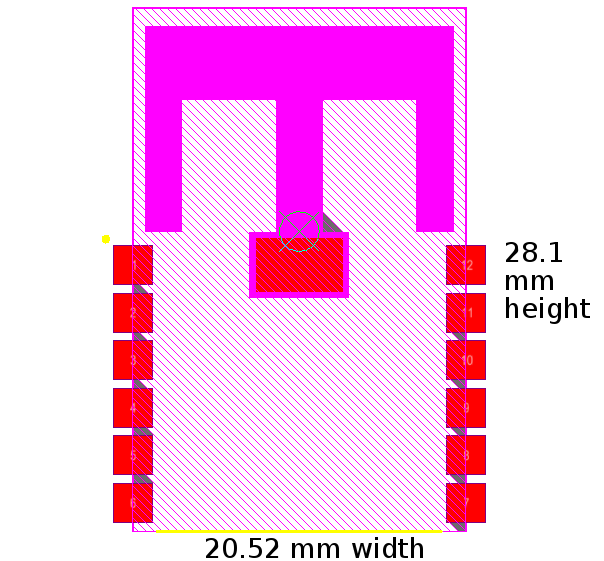
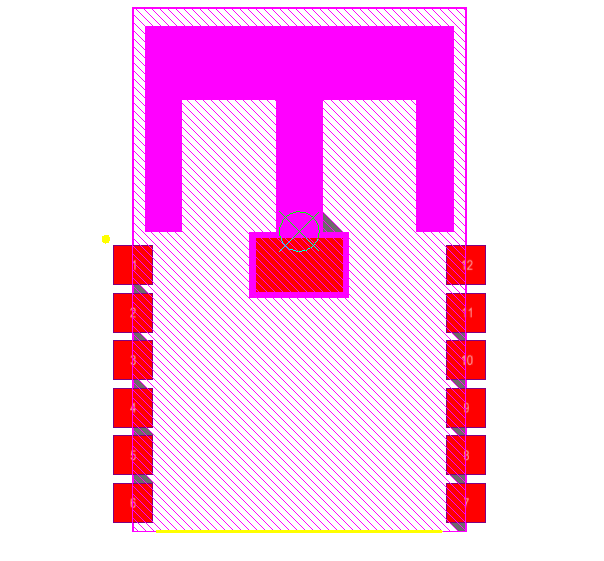
fin por hoy

Changed region(s): [[0.8344, 0.4242, 0.9834, 0.5758], [0.3278, 0.9394, 0.7152, 1.0]]

diff --git a/Capitulos/05ImplementationStudy.tex b/Capitulos/05ImplementationStudy.tex
@@ -71,21 +71,20 @@ The secuential mounting, and the existing firmware allow to carry through simple
 
 This module was developed because of the non-existance of reduced size \ac{RI}s including the MRF49XA transceiver, so, by definition, the module must posses a reduced size. Taking advantage of the included MRF24j40MA \ac{RI}, it was decided to design a \ac{PCB} module fitting the footprint of the named \ac{RI}. This way a single footprint is commont to all the included \ac{RI}s. This footprint is defined in Figure \ref{fig:cap5:mtransfootprint}.
 
-\begin{figure}
-        \centering
-                \includegraphics[height=107px]{Imagenes/Vectorial/Capitulo5/transfootprint}
-        \caption{$\mu$Trans 434/868 and MRF24j40MA shared footprint.}
-        \label{fig:cap5:mtransfootprint}
+
+\begin{figure}[h]
+\centering
+
+\subfloat[$\mu$Trans 434/868 and MRF24j40MA footprint. 20.5x28.1 mm.]{\label{fig:cap5:mtransfootprint}\includegraphics[height=107px]{Imagenes/Vectorial/Capitulo5/transfootprint}}%
+\qquad
+\subfloat[$\mu$Trans 434/868 PCB shape. ******* mm.]{\label{fig:cap5:mtransshape}\includegraphics[height=107px]{Imagenes/Vectorial/Capitulo5/mtransshape}}%
+
+\caption{Real size footprint and shape for $\mu$Trans module.}
+\label{fig:cap5:realsizemtrans}
+
 \end{figure}
 
 The \ac{PCB} size must be suitable for this footprint, not exceeding its width. $\mu$Trans \ac{PCB} shape is defined as in Figure \ref{fig:cap5:mtransshape}.
-
-\begin{figure}
-        \centering
-                \includegraphics[height=107px]{Imagenes/Vectorial/Capitulo5/mtransshape}
-        \caption{$\mu$Trans 434/868 PCB real size shape. ************ mm.}
-        \label{fig:cap5:mtransshape}
-\end{figure}
 
 Module pads are based vias\footnote{A via is a electrical connection between layers in a physical electronic circuit that goes through the plane of one or more adjacent layers.}, with a 1.2 mm diameter through hole. These holes are width enouth let the solder tip into them and solder the pads over the footprint. These pads constitute the electrical interface between the $\mu$Trans and \ac{CNGD} and suppose a low-cost and size solution.  
 
